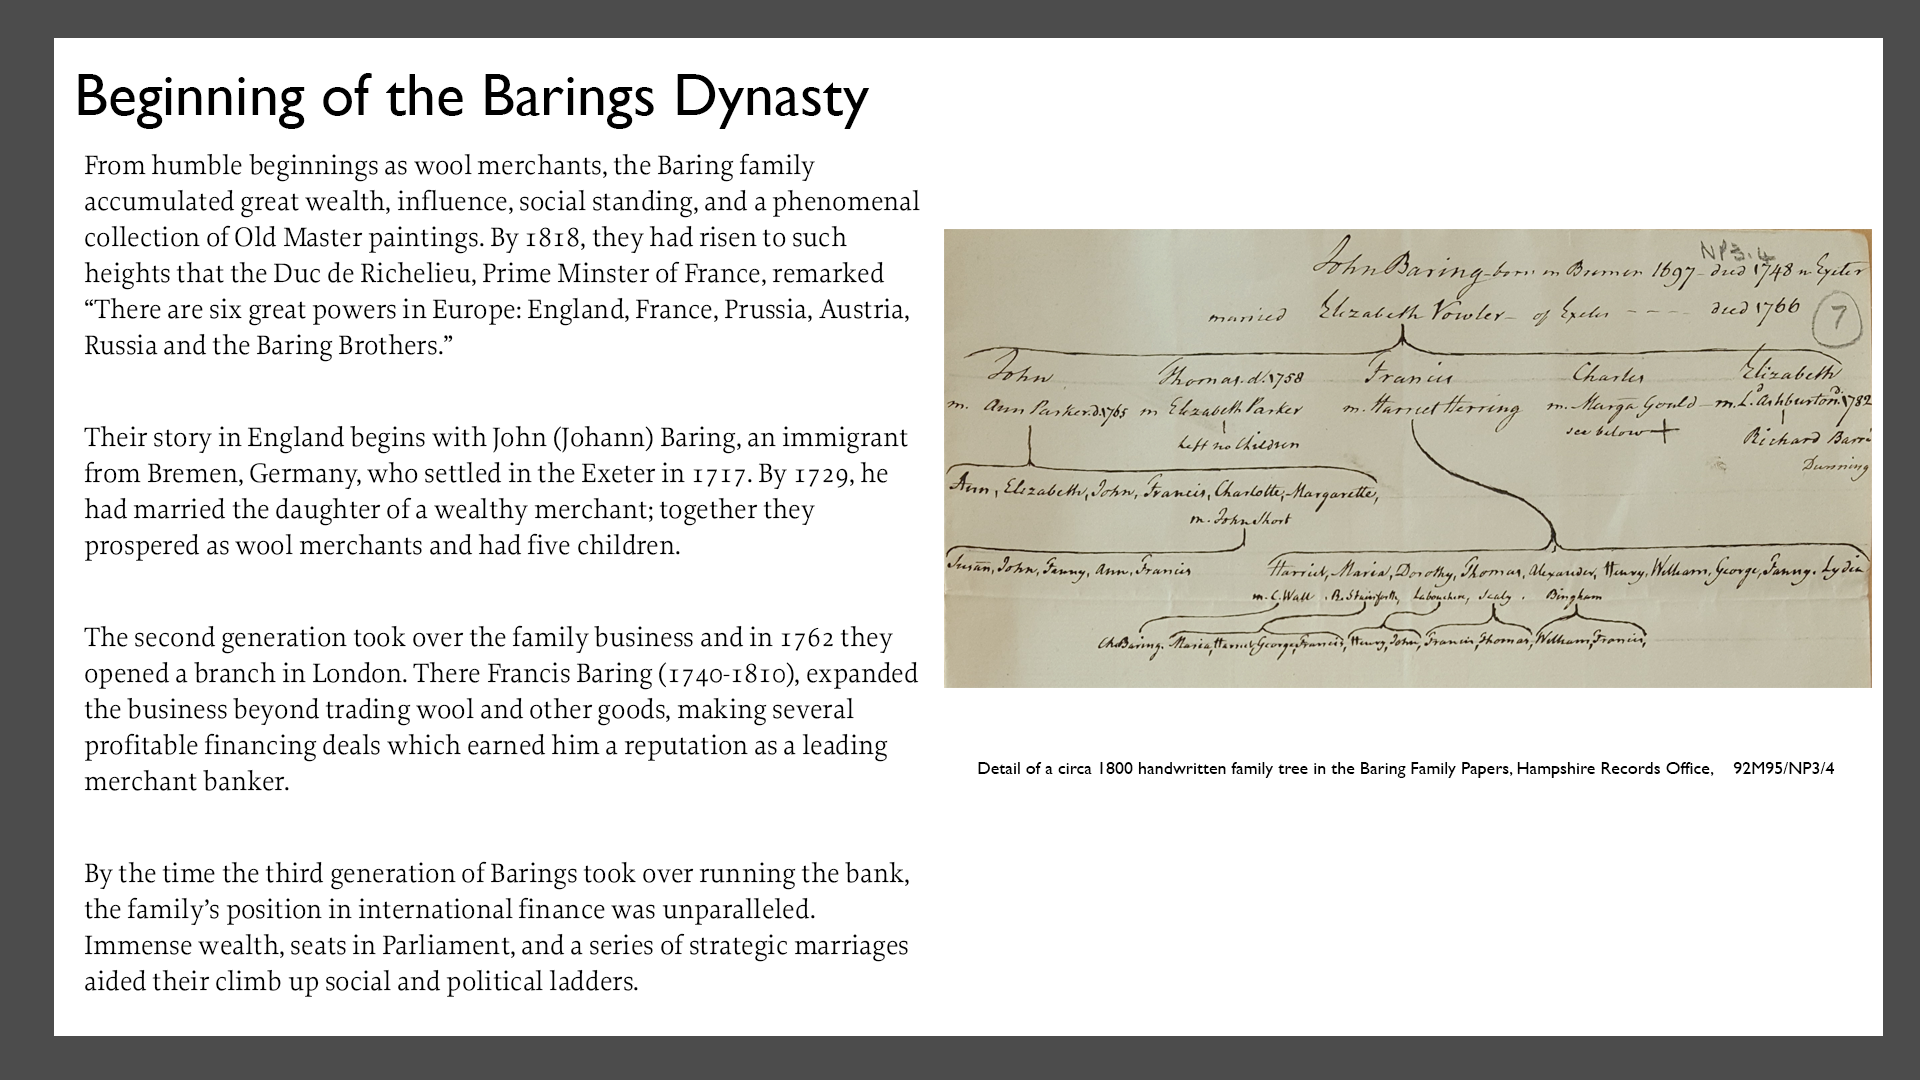
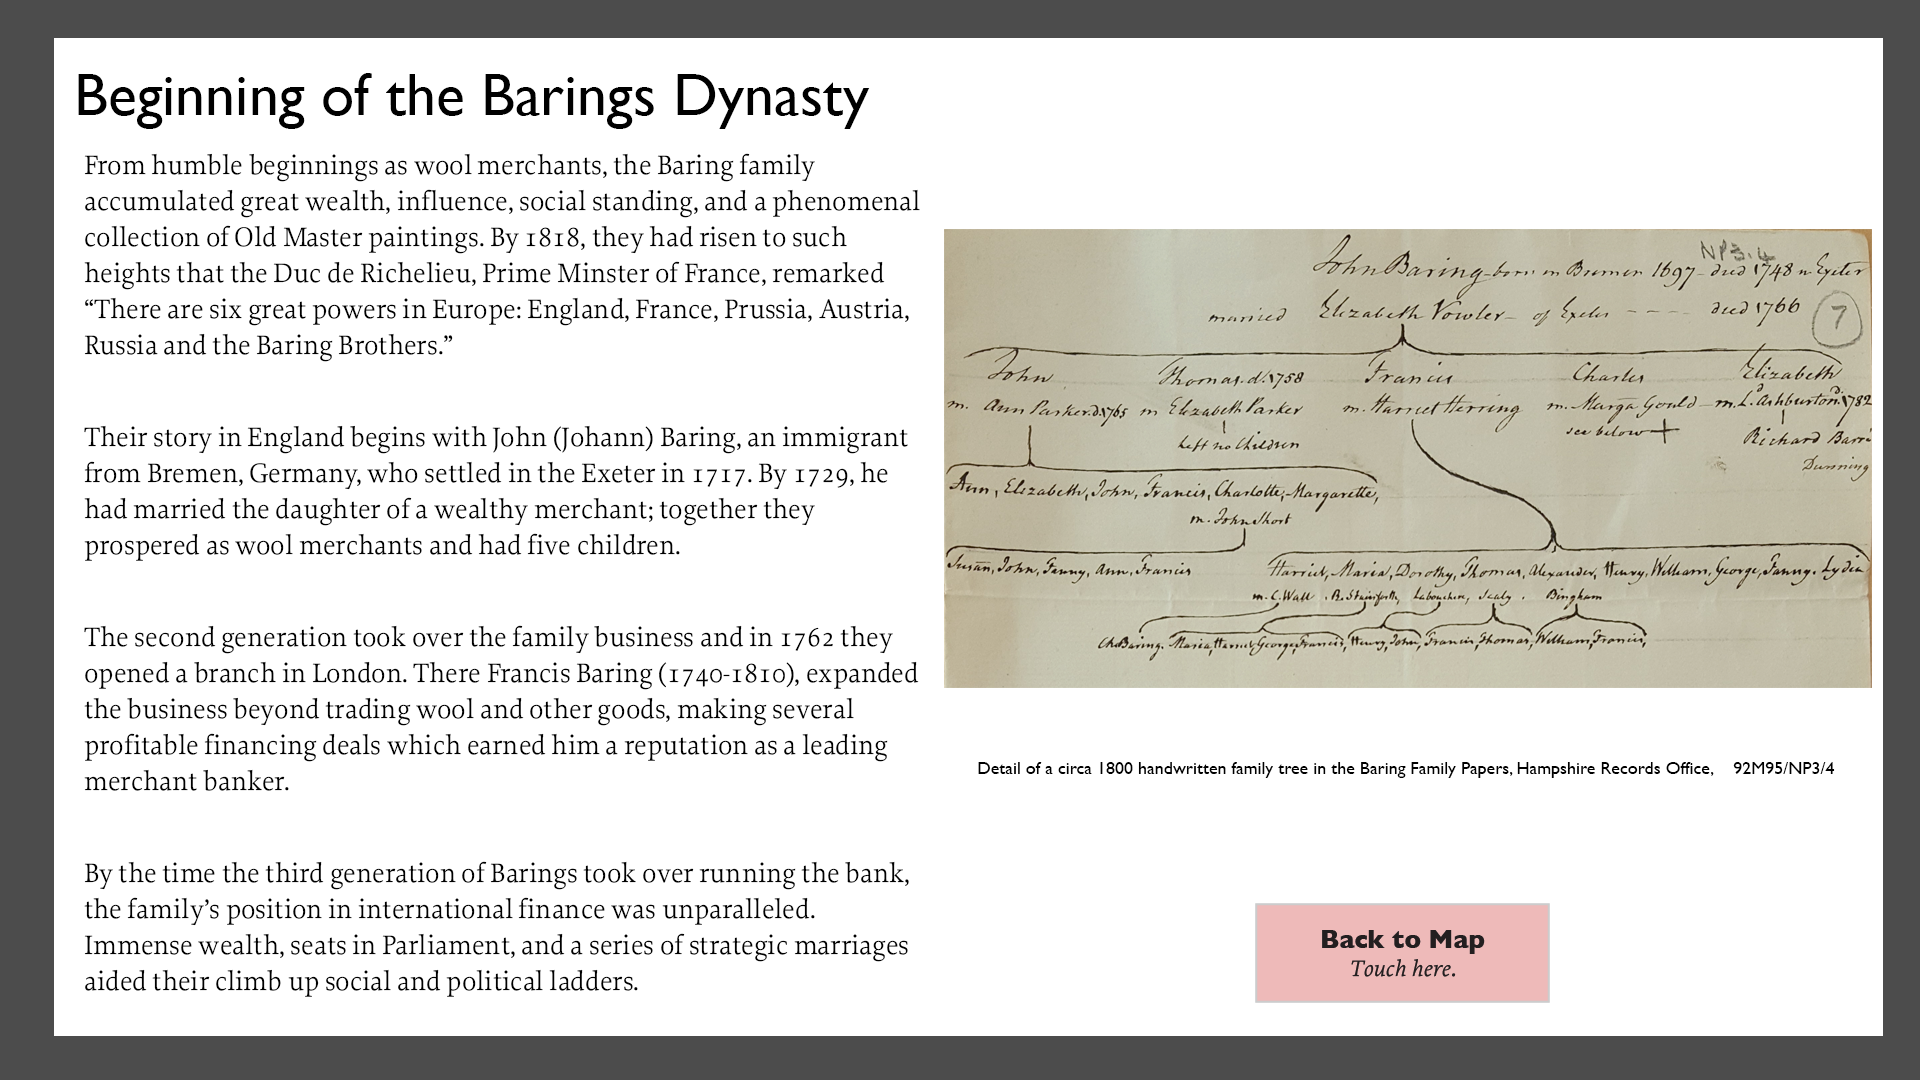
localized button

Changed region(s): [[0.6562, 0.825, 0.8125, 0.9472]]

diff --git a/src/touch_table/TouchTable.js b/src/touch_table/TouchTable.js
@@ -54,8 +54,11 @@ class TouchTable extends Component {
           <img
             src={this.state.overlay}
             alt=""
-            onClick={()=> {this.setState({overlayVisible: false}); this.counter.unpause.call(this.counter)}}
           />
+          <div
+            className="overlayButton"
+            onClick={()=> {this.setState({overlayVisible: false}); this.counter.unpause.call(this.counter)}}
+          ></div>
       </div>
     )
 

diff --git a/src/touch_table/TouchTable.sass b/src/touch_table/TouchTable.sass
@@ -2,6 +2,13 @@ $SIDEBAR_WIDTH: 430px
 $CONTENT_HEIGHT: 780px
 $CONTROL_OFFSET: 110px
 
+.overlayButton
+  position: absolute
+  width: 335px
+  height: 130px
+  right: 350px
+  bottom: 70px
+
 .overlay
   position: absolute
 
